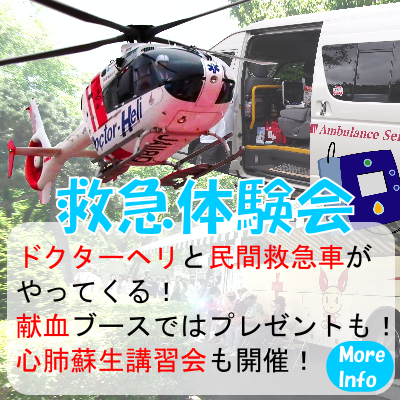
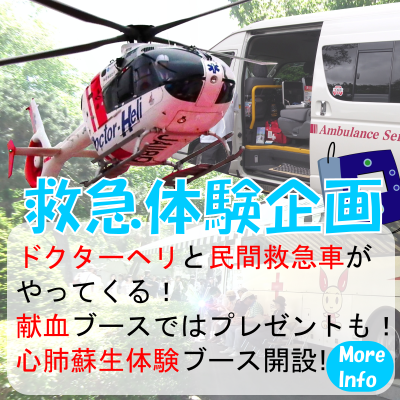
change names

diff --git a/source/stylesheets/all.css b/source/stylesheets/all.css
@@ -17,6 +17,10 @@ a:hover {
   color: #e74c3c;
 }
 
+strong {
+  font-weight: 700;
+}
+
 .container {
   width: 100%;
   max-width: 1400px;
